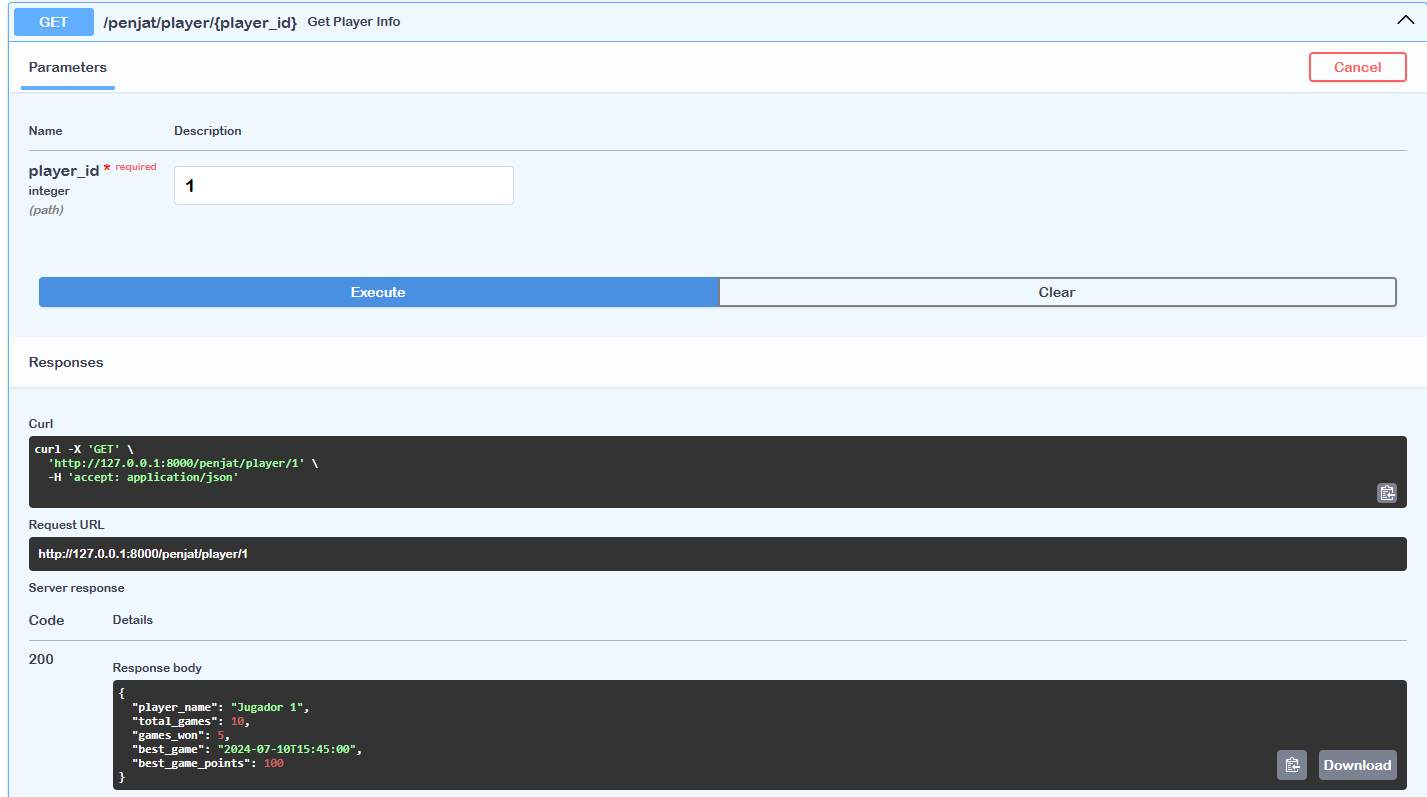
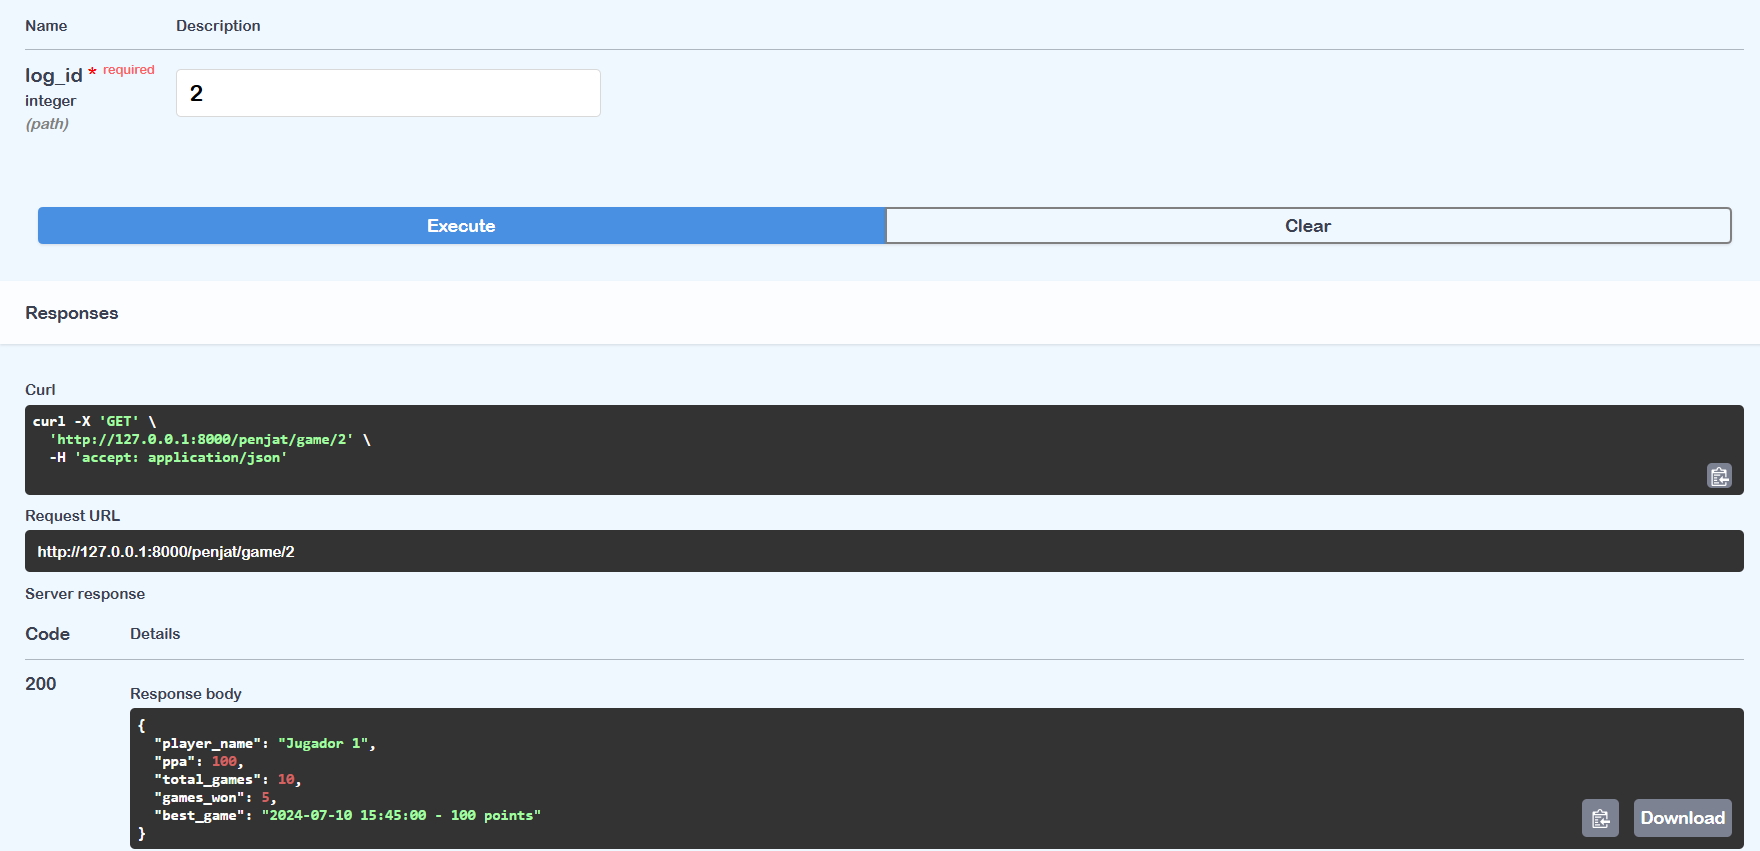
add new field in log_record

diff --git a/ACTIVITAT_11/main.py b/ACTIVITAT_11/main.py
@@ -1,11 +1,9 @@
 from fastapi import FastAPI
-from typing import List
 from ACTIVITAT_11.db_utils.attempt_utils import (
     get_total_errors_from_db,
     register_attempt_in_db,
 )
 from ACTIVITAT_11.schemes.attempt import Attempt
-from ACTIVITAT_11.schemes.player_logId import PlayerStats
 from ACTIVITAT_11.db_utils.alphabet_utils import get_alphabet_from_db
 from ACTIVITAT_11.db_utils.player_utils import get_player_stats
 from ACTIVITAT_11.db_utils.start_utils import get_start_game_text
@@ -17,41 +15,42 @@ app = FastAPI()
 @app.get("/penjat/start-game")
 async def start_game():
     text = get_start_game_text()
-    return text
+    if text:
+        return text
+    return {"message": "Text not found"}
 
 
 # Recollir els errors
 @app.get("/penjat/errors/{log_id}")
 def get_total_errors(log_id: int):
     total_errors = get_total_errors_from_db(log_id)
-    return {"log_id": log_id, "total_errors": total_errors}
+    if total_errors is not None:
+        return {"log_id": log_id, "total_errors": total_errors}
+    return {"message": f"No errors found for log_id {log_id}."}
 
 
 # Registrar intents
-@app.post("/penjat/attempts", response_model=dict)
+@app.post("/penjat/attempts")
 async def post_attempt(attempt: Attempt):
-    return register_attempt_in_db(attempt)
+    result = register_attempt_in_db(attempt)
+    if result:
+        return result
+    return {"message": "Failed to register the attempt."}
 
 
 # Retorna l'alfabet corresponent
-@app.get("/penjat/alphabet/{lang}", response_model=List[dict])
+@app.get("/penjat/alphabet/{lang}")
 async def get_alphabet(lang: str):
     alphabet = get_alphabet_from_db(lang)
-    return alphabet
-
-
-""" 
-Amb Schema
-@app.get("/penjat/player/{player_id}", response_model=List[dict])
-async def get_player_info(player_id: int):
-    stats = get_player_stats(player_id)
-    return player_stats_list_schema(stats) """
+    if alphabet:
+        return alphabet
+    return {"message": f"No alphabet found for the language '{lang}'."}
 
 
 # Estadístiques Jugador
-@app.get("/penjat/player/{player_id}", response_model=PlayerStats)
-async def get_player_info(player_id: int):
-    stats = get_player_stats(player_id)
+@app.get("/penjat/game/{log_id}")
+async def get_player_info(log_id: int):
+    stats = get_player_stats(log_id)
     if stats:
         return stats
-    return None
+    return {"message": "Game not found."}

diff --git a/ACTIVITAT_11/db_utils/player_utils.py b/ACTIVITAT_11/db_utils/player_utils.py
@@ -1,33 +1,29 @@
 from ACTIVITAT_11.db_connect.db_connect import create_connection
+from ACTIVITAT_11.schemes.player_logId import player_stats_schema
 
 
-def get_player_stats(player_id: int):
+def get_player_stats(log_id: int):
     connection = create_connection()
     cursor = connection.cursor()
 
     query = """
     SELECT usuari.name, 
-           log_record.total_games, 
-           log_record.games_won, 
-           log_record.best_game, 
-           log_record.ppa
+        log_record.ppa, 
+        log_record.total_games, 
+        log_record.games_won, 
+        log_record.best_game_date,
+        log_record.best_game_points
     FROM usuari 
     JOIN log_record ON usuari.id = log_record.user_id
-    WHERE usuari.id = %s;
+    WHERE log_record.log_id = %s;
     """
 
-    cursor.execute(query, (player_id,))
+    cursor.execute(query, (log_id,))
     result = cursor.fetchone()
 
     cursor.close()
     connection.close()
 
     if result:
-        return {
-            "player_name": result[0],
-            "total_games": result[1],
-            "games_won": result[2],
-            "best_game": result[3],
-            "best_game_points": result[4],
-        }
+        return player_stats_schema(result)
     return None

diff --git a/ACTIVITAT_11/schemes/player_logId.py b/ACTIVITAT_11/schemes/player_logId.py
@@ -1,26 +1,15 @@
-from pydantic import BaseModel
-from typing import Optional
-from datetime import datetime
+from typing import List
 
 
-class PlayerStats(BaseModel):
-    player_name: str
-    total_games: int
-    games_won: int
-    best_game: Optional[datetime]
-    best_game_points: int
-
-
-""" def player_stats_schema(player: tuple) -> dict:
+def player_stats_schema(record: tuple) -> dict:
     return {
-        "player_name": player[0],
-        "total_games": player[1],
-        "games_won": player[2],
-        "best_game": player[3],
-        "best_game_points": player[4],
+        "player_name": record[0],
+        "ppa": record[1],
+        "total_games": record[2],
+        "games_won": record[3],
+        "best_game": f"{record[4]} - {record[5]} points",
     }
 
 
-def player_stats_list_schema(players: List[tuple]) -> List[dict]:
-    return [player_stats_schema(player) for player in players]
-"""
+def player_stats_list_schema(records: List[tuple]) -> List[dict]:
+    return [player_stats_schema(record) for record in records]

diff --git a/ACTIVITAT_11/README.md b/ACTIVITAT_11/README.md
@@ -18,6 +18,13 @@
 
 #### Amb el is_correct podem després treure els errors que ha fet en la partida corresponent.
 
+### Taula Log_Record
+#### He afegit el camp "best_game_points" i he modificat el nom del camp "best_game" a "best_game_date":
+
+![Resultat](./images/new_field.png)
+
+### Ho he modificat ja que abans tenía només la data al camp, no guardaba els millors punts que habia aconseguit en la partida
+
 ## Endpoints amb Swagger
 
 ### GET /penjat/start-game
@@ -38,6 +45,6 @@
 #### Agafar l'abecedari corresponent
 ![Resultat](./images/alphabet.png)
 
-### GET /penjat/player/{player_id}
+### GET /penjat/game/{log_id}
 #### Agafar les estadístiques del jugador
 ![Resultat](./images/player_record.png)
